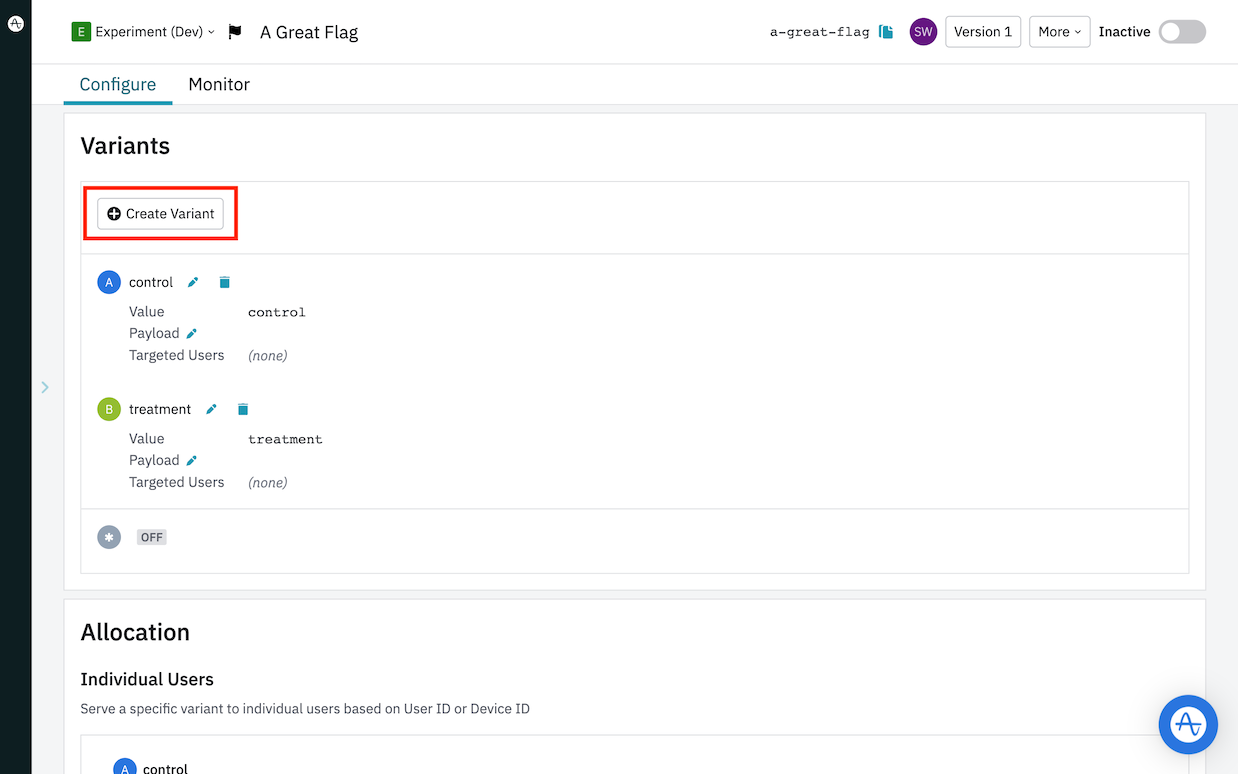
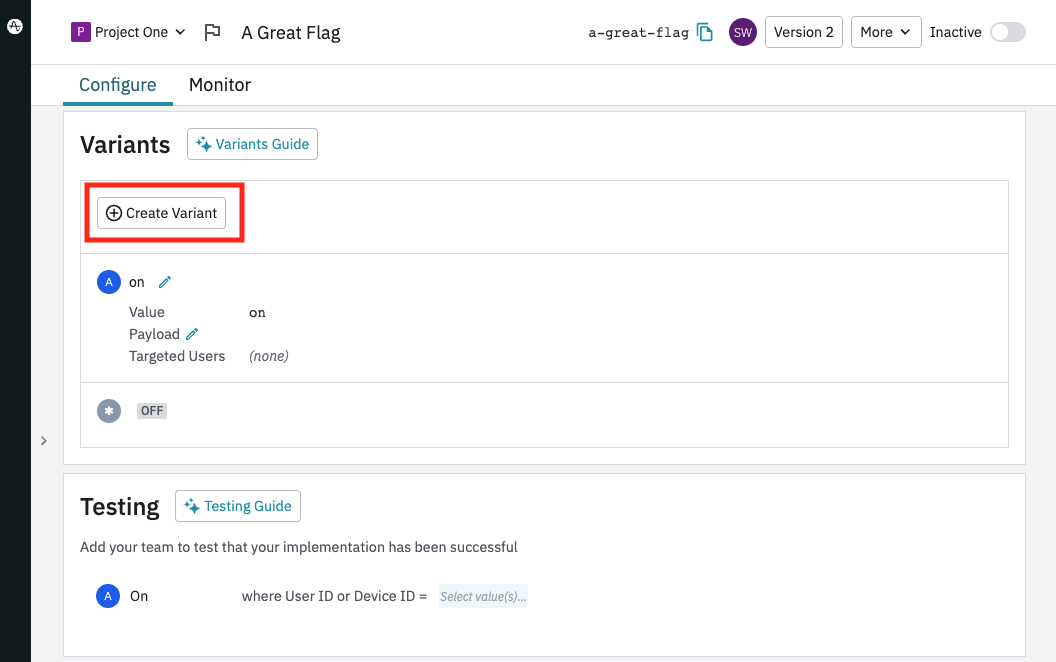
Update allocation screenshots in experiment guides

diff --git a/docs/experiment/guides/getting-started/create-a-flag.md b/docs/experiment/guides/getting-started/create-a-flag.md
@@ -30,11 +30,22 @@ After you have created your flag, you are ready to define its [variants](../../g
 
 ![Screenshot of variants in configure tab](../../../assets/images/experiment/create-flag-2.png)
 
+!!!tip "Experiment variants"
+    By default, flags are created with a single "on" variant and experiments come with two default variants, "control" and "treatment".
+
 ### Configure targeting rules
 
 Your flag won't target any users by default. To target users, set the **Percentage Rollout** to 100%. Now all evaluated users will be assigned the "on" variant for this feature flag.
 
 ![Screenshot of allocation card with percentage rollout](../../../assets/images/experiment/create-flag-3.png)
+
+If you would like to target specific segments of users instead of all users, switch to the "Targeted Users" view and create your segments.
+
+![Screenshot of allocation card with targeted users control](../../../assets/images/experiment/create-flag-3b.png)
+
+If your flag has more than one variant, you will also be able to adjust distribution.
+
+![Screenshot of allocation card with distribution control](../../../assets/images/experiment/create-flag-3c.png)
 
 ### Activate the flag
 

diff --git a/docs/experiment/guides/create-local-evaluation-flag.md b/docs/experiment/guides/create-local-evaluation-flag.md
@@ -27,6 +27,6 @@ You may retroactively transition a remote flag to local evaluation mode by chang
 
     ![Screenshot of advanced settings with evaluation mode picker](../../assets/images/experiment/local-eval-migrate-flag-1.png)
 
-2. Update the "bucketed by" setting from Amplitude ID to Device ID in each "Rule Based User Segment" and "All Non-Targeted Users" Section.
+2. Update the "bucketed by" setting from Amplitude ID to Device ID in each targeted users segment and the "All Other Users" Section.
 
     ![Screenshot of allocation configuration with "bucketed by" setting](../../assets/images/experiment/local-eval-migrate-flag-2.png)
